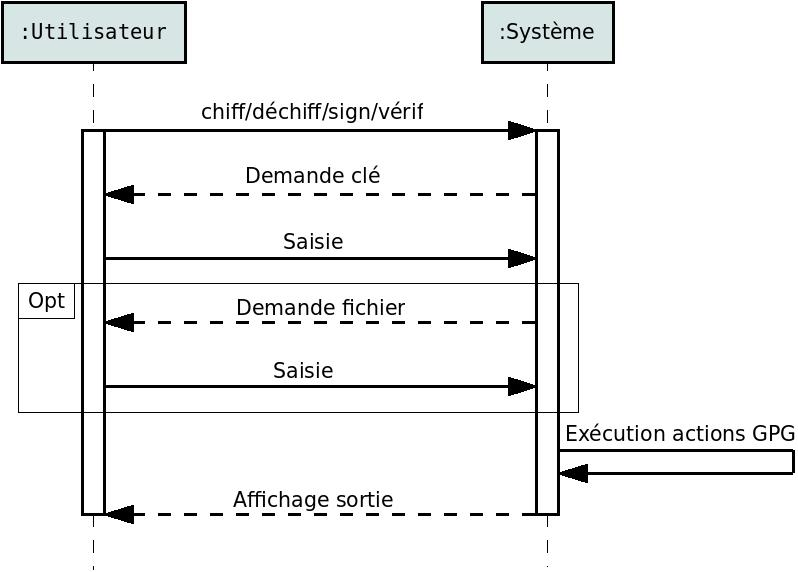
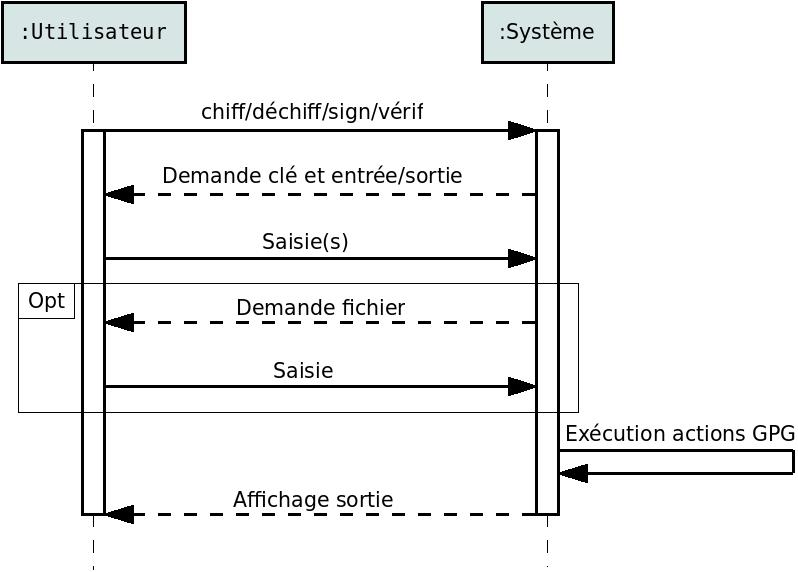
Modification du cas 2 : import/export fichier

Changed region(s): [[0.2105, 0.2972, 0.6015, 0.3269], [0.3308, 0.3864, 0.4511, 0.4458]]

diff --git a/documents/STB/STB.tex b/documents/STB/STB.tex
@@ -219,10 +219,10 @@ Différents documents de référence :
 % Acteurs concernés
 {Utilisateur}
 % Description
-{Chiffrer ou déchiffrer ou signer ou vérifier un message copié dans l'éditeur de l'interface.}
+{Chiffrer ou déchiffrer ou signer ou vérifier un message copié dans l'éditeur de l'interface. Il est possible d'exporter le résultat dans un fichier, ou d'importer un fichier. Dans ce dernier cas, le résultat est affiché via l'interface.}
 % Préconditions
 {
-  Il y existe plusieurs préconditions :
+  Il existe plusieurs préconditions :
   \begin{itemize}
     \item Pour déchiffrer ou signer, l'utilisateur possède sa clé privée.
     \item Pour chiffrer, l'utilisateur possède la clé publique du destinataire.
@@ -240,9 +240,11 @@ Différents documents de référence :
 % Fin de la fiche du cas d'utilisation 2.
 \vspace{0.5cm}
 
+Au moment de la demande de clé et de l'entrée/sortie, l'utilisateur doit saisir la clé, et éventuellement un fichier pour l'entrée, s'il désire une autre entrée que l'éditeur de l'interface, ou la sortie, s'il désire rediriger la sortie vers ce fichier.
+
 Le cadre optionnel permet, lors d'une signature détachée, à l'utilisateur de pouvoir préciser le fichier pour la signature.
 
-L'affichage sortie comporte les informations des retours GPG, tels que le destinataire, l'UI de celui qui a signé, la date, etc., ainsi que le texte une fois chiffré, déchiffré, signé ou vérifié.
+L'affichage sortie comporte les informations des retours GPG, tels que le destinataire, l'UI de celui qui a signé, la date, etc., ainsi que le texte une fois chiffré, déchiffré, signé ou vérifié si la sortie n'a pas été redirigée vers un fichier.
 
 \subsubsection{Cas d'utilisation 3}
 \ficheGraphic
